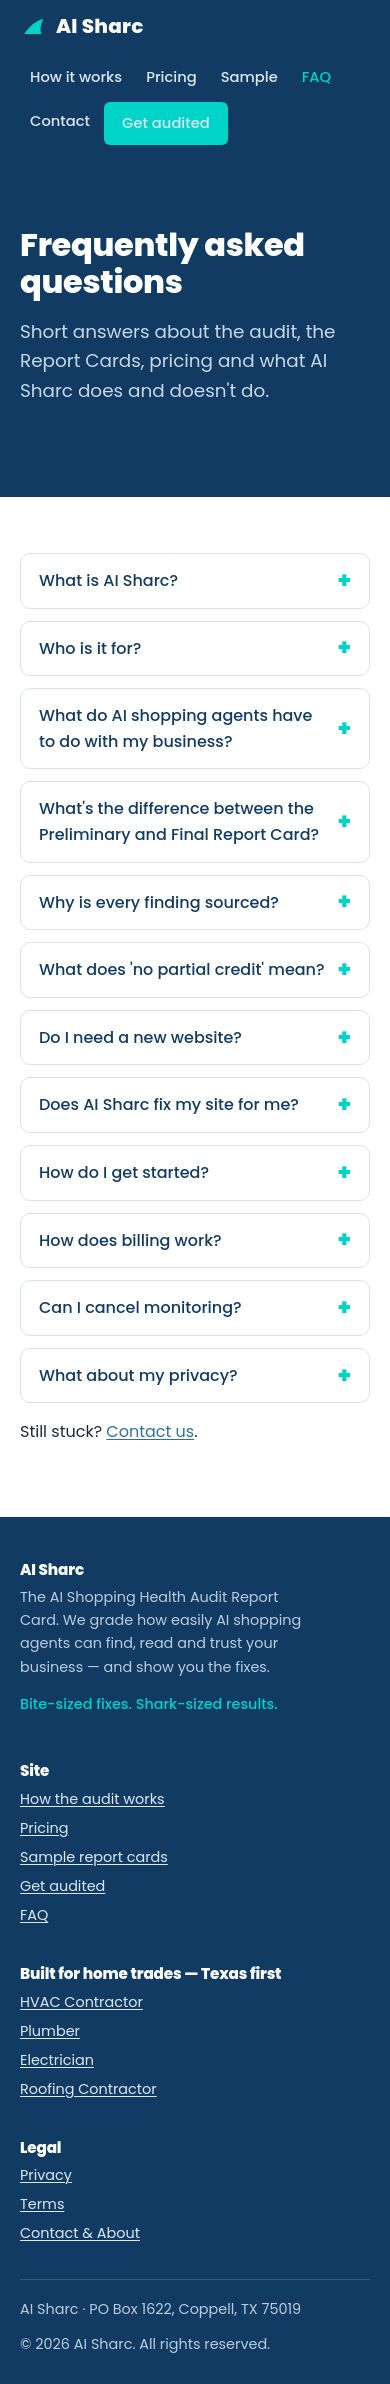
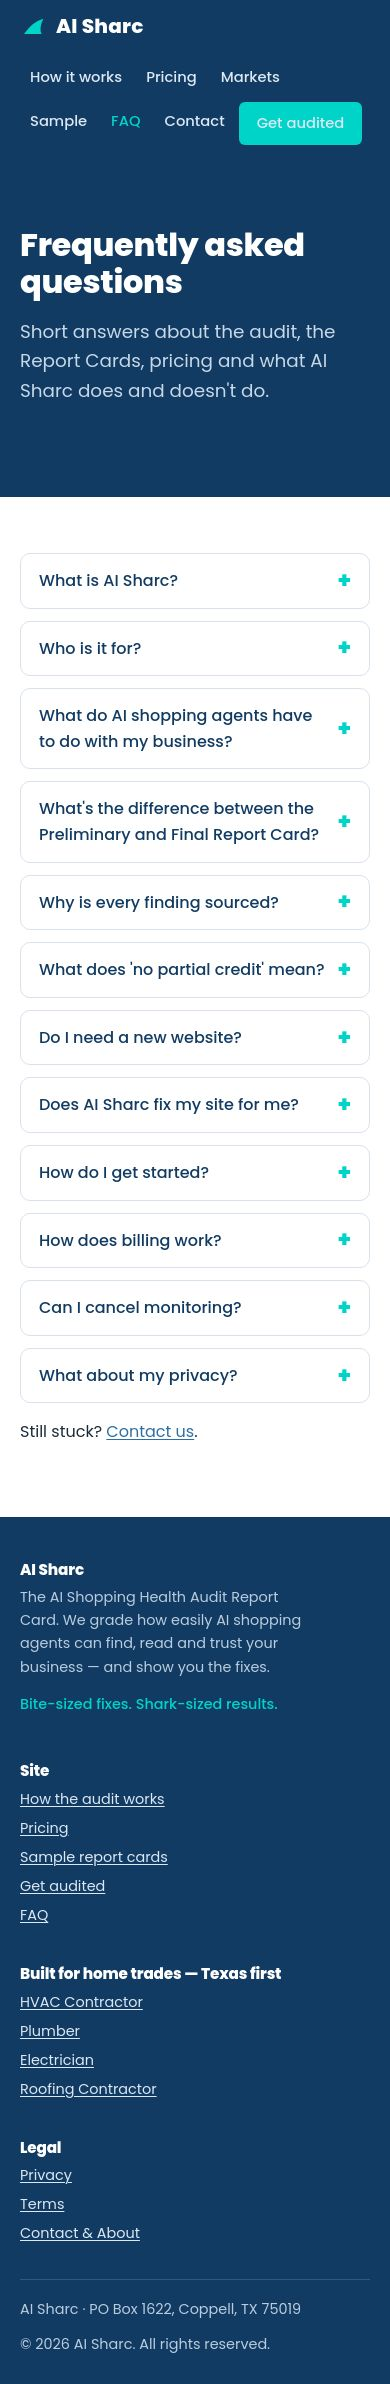
nav: Markets link to Texas HVAC page; photos rebranded to AC Sharc (Drain Sharc archived for plumbing)

Changed region(s): [[0.2462, 0.031, 0.9231, 0.0621], [0.1846, 0.031, 0.2154, 0.0621], [0.1231, 0.031, 0.1538, 0.0621]]

diff --git a/site/contact.html b/site/contact.html
@@ -29,7 +29,7 @@
 <header class="site-header">
   <div class="wrap">
     <a class="brand" href="index.html" aria-label="AI Sharc home"><svg class="fin" width="26" height="20" viewBox="-14 -48 132 102" aria-hidden="true"><path d="M 6 44 Q 50 -20 105 -34 Q 80 16 96 44 Z" fill="#00D4C8"/></svg><strong>AI&nbsp;Sharc</strong></a>
-    <nav class="nav" aria-label="Main"><a href="how-it-works.html">How it works</a><a href="pricing.html">Pricing</a><a href="sample-cards.html">Sample</a><a href="faq.html">FAQ</a><a href="contact.html" aria-current="page">Contact</a>
+    <nav class="nav" aria-label="Main"><a href="how-it-works.html">How it works</a><a href="pricing.html">Pricing</a><a href="texas-hvac-contractor.html">Markets</a><a href="sample-cards.html">Sample</a><a href="faq.html">FAQ</a><a href="contact.html" aria-current="page">Contact</a>
       <a class="btn btn-teal" style="padding:8px 16px" href="https://aisharc.com/get-audited">Get audited</a>
     </nav>
   </div>

diff --git a/site/faq.html b/site/faq.html
@@ -29,7 +29,7 @@
 <header class="site-header">
   <div class="wrap">
     <a class="brand" href="index.html" aria-label="AI Sharc home"><svg class="fin" width="26" height="20" viewBox="-14 -48 132 102" aria-hidden="true"><path d="M 6 44 Q 50 -20 105 -34 Q 80 16 96 44 Z" fill="#00D4C8"/></svg><strong>AI&nbsp;Sharc</strong></a>
-    <nav class="nav" aria-label="Main"><a href="how-it-works.html">How it works</a><a href="pricing.html">Pricing</a><a href="sample-cards.html">Sample</a><a href="faq.html" aria-current="page">FAQ</a><a href="contact.html">Contact</a>
+    <nav class="nav" aria-label="Main"><a href="how-it-works.html">How it works</a><a href="pricing.html">Pricing</a><a href="texas-hvac-contractor.html">Markets</a><a href="sample-cards.html">Sample</a><a href="faq.html" aria-current="page">FAQ</a><a href="contact.html">Contact</a>
       <a class="btn btn-teal" style="padding:8px 16px" href="https://aisharc.com/get-audited">Get audited</a>
     </nav>
   </div>

diff --git a/site/how-it-works.html b/site/how-it-works.html
@@ -29,7 +29,7 @@
 <header class="site-header">
   <div class="wrap">
     <a class="brand" href="index.html" aria-label="AI Sharc home"><svg class="fin" width="26" height="20" viewBox="-14 -48 132 102" aria-hidden="true"><path d="M 6 44 Q 50 -20 105 -34 Q 80 16 96 44 Z" fill="#00D4C8"/></svg><strong>AI&nbsp;Sharc</strong></a>
-    <nav class="nav" aria-label="Main"><a href="how-it-works.html" aria-current="page">How it works</a><a href="pricing.html">Pricing</a><a href="sample-cards.html">Sample</a><a href="faq.html">FAQ</a><a href="contact.html">Contact</a>
+    <nav class="nav" aria-label="Main"><a href="how-it-works.html" aria-current="page">How it works</a><a href="pricing.html">Pricing</a><a href="texas-hvac-contractor.html">Markets</a><a href="sample-cards.html">Sample</a><a href="faq.html">FAQ</a><a href="contact.html">Contact</a>
       <a class="btn btn-teal" style="padding:8px 16px" href="https://aisharc.com/get-audited">Get audited</a>
     </nav>
   </div>

diff --git a/site/pricing.html b/site/pricing.html
@@ -29,7 +29,7 @@
 <header class="site-header">
   <div class="wrap">
     <a class="brand" href="index.html" aria-label="AI Sharc home"><svg class="fin" width="26" height="20" viewBox="-14 -48 132 102" aria-hidden="true"><path d="M 6 44 Q 50 -20 105 -34 Q 80 16 96 44 Z" fill="#00D4C8"/></svg><strong>AI&nbsp;Sharc</strong></a>
-    <nav class="nav" aria-label="Main"><a href="how-it-works.html">How it works</a><a href="pricing.html" aria-current="page">Pricing</a><a href="sample-cards.html">Sample</a><a href="faq.html">FAQ</a><a href="contact.html">Contact</a>
+    <nav class="nav" aria-label="Main"><a href="how-it-works.html">How it works</a><a href="pricing.html" aria-current="page">Pricing</a><a href="texas-hvac-contractor.html">Markets</a><a href="sample-cards.html">Sample</a><a href="faq.html">FAQ</a><a href="contact.html">Contact</a>
       <a class="btn btn-teal" style="padding:8px 16px" href="https://aisharc.com/get-audited">Get audited</a>
     </nav>
   </div>

diff --git a/site/sample-cards.html b/site/sample-cards.html
@@ -29,7 +29,7 @@
 <header class="site-header">
   <div class="wrap">
     <a class="brand" href="index.html" aria-label="AI Sharc home"><svg class="fin" width="26" height="20" viewBox="-14 -48 132 102" aria-hidden="true"><path d="M 6 44 Q 50 -20 105 -34 Q 80 16 96 44 Z" fill="#00D4C8"/></svg><strong>AI&nbsp;Sharc</strong></a>
-    <nav class="nav" aria-label="Main"><a href="how-it-works.html">How it works</a><a href="pricing.html">Pricing</a><a href="sample-cards.html" aria-current="page">Sample</a><a href="faq.html">FAQ</a><a href="contact.html">Contact</a>
+    <nav class="nav" aria-label="Main"><a href="how-it-works.html">How it works</a><a href="pricing.html">Pricing</a><a href="texas-hvac-contractor.html">Markets</a><a href="sample-cards.html" aria-current="page">Sample</a><a href="faq.html">FAQ</a><a href="contact.html">Contact</a>
       <a class="btn btn-teal" style="padding:8px 16px" href="https://aisharc.com/get-audited">Get audited</a>
     </nav>
   </div>

diff --git a/site/digest/google-books-services-in-search.html b/site/digest/google-books-services-in-search.html
@@ -29,7 +29,7 @@
 <header class="site-header">
   <div class="wrap">
     <a class="brand" href="../index.html" aria-label="AI Sharc home"><svg class="fin" width="26" height="20" viewBox="-14 -48 132 102" aria-hidden="true"><path d="M 6 44 Q 50 -20 105 -34 Q 80 16 96 44 Z" fill="#00D4C8"/></svg><strong>AI&nbsp;Sharc</strong></a>
-    <nav class="nav" aria-label="Main"><a href="../how-it-works.html">How it works</a><a href="../pricing.html">Pricing</a><a href="../sample-cards.html">Sample</a><a href="../faq.html">FAQ</a><a href="../contact.html">Contact</a>
+    <nav class="nav" aria-label="Main"><a href="../how-it-works.html">How it works</a><a href="../pricing.html">Pricing</a><a href="../texas-hvac-contractor.html">Markets</a><a href="../sample-cards.html">Sample</a><a href="../faq.html">FAQ</a><a href="../contact.html">Contact</a>
       <a class="btn btn-teal" style="padding:8px 16px" href="https://aisharc.com/get-audited">Get audited</a>
     </nav>
   </div>

diff --git a/site/digest/google-first-place-is-worth-less.html b/site/digest/google-first-place-is-worth-less.html
@@ -29,7 +29,7 @@
 <header class="site-header">
   <div class="wrap">
     <a class="brand" href="../index.html" aria-label="AI Sharc home"><svg class="fin" width="26" height="20" viewBox="-14 -48 132 102" aria-hidden="true"><path d="M 6 44 Q 50 -20 105 -34 Q 80 16 96 44 Z" fill="#00D4C8"/></svg><strong>AI&nbsp;Sharc</strong></a>
-    <nav class="nav" aria-label="Main"><a href="../how-it-works.html">How it works</a><a href="../pricing.html">Pricing</a><a href="../sample-cards.html">Sample</a><a href="../faq.html">FAQ</a><a href="../contact.html">Contact</a>
+    <nav class="nav" aria-label="Main"><a href="../how-it-works.html">How it works</a><a href="../pricing.html">Pricing</a><a href="../texas-hvac-contractor.html">Markets</a><a href="../sample-cards.html">Sample</a><a href="../faq.html">FAQ</a><a href="../contact.html">Contact</a>
       <a class="btn btn-teal" style="padding:8px 16px" href="https://aisharc.com/get-audited">Get audited</a>
     </nav>
   </div>

diff --git a/site/digest/homeowners-ask-ai-first.html b/site/digest/homeowners-ask-ai-first.html
@@ -29,7 +29,7 @@
 <header class="site-header">
   <div class="wrap">
     <a class="brand" href="../index.html" aria-label="AI Sharc home"><svg class="fin" width="26" height="20" viewBox="-14 -48 132 102" aria-hidden="true"><path d="M 6 44 Q 50 -20 105 -34 Q 80 16 96 44 Z" fill="#00D4C8"/></svg><strong>AI&nbsp;Sharc</strong></a>
-    <nav class="nav" aria-label="Main"><a href="../how-it-works.html">How it works</a><a href="../pricing.html">Pricing</a><a href="../sample-cards.html">Sample</a><a href="../faq.html">FAQ</a><a href="../contact.html">Contact</a>
+    <nav class="nav" aria-label="Main"><a href="../how-it-works.html">How it works</a><a href="../pricing.html">Pricing</a><a href="../texas-hvac-contractor.html">Markets</a><a href="../sample-cards.html">Sample</a><a href="../faq.html">FAQ</a><a href="../contact.html">Contact</a>
       <a class="btn btn-teal" style="padding:8px 16px" href="https://aisharc.com/get-audited">Get audited</a>
     </nav>
   </div>

diff --git a/site/digest/index.html b/site/digest/index.html
@@ -29,7 +29,7 @@
 <header class="site-header">
   <div class="wrap">
     <a class="brand" href="../index.html" aria-label="AI Sharc home"><svg class="fin" width="26" height="20" viewBox="-14 -48 132 102" aria-hidden="true"><path d="M 6 44 Q 50 -20 105 -34 Q 80 16 96 44 Z" fill="#00D4C8"/></svg><strong>AI&nbsp;Sharc</strong></a>
-    <nav class="nav" aria-label="Main"><a href="../how-it-works.html">How it works</a><a href="../pricing.html">Pricing</a><a href="../sample-cards.html">Sample</a><a href="../faq.html">FAQ</a><a href="../contact.html">Contact</a>
+    <nav class="nav" aria-label="Main"><a href="../how-it-works.html">How it works</a><a href="../pricing.html">Pricing</a><a href="../texas-hvac-contractor.html">Markets</a><a href="../sample-cards.html">Sample</a><a href="../faq.html">FAQ</a><a href="../contact.html">Contact</a>
       <a class="btn btn-teal" style="padding:8px 16px" href="https://aisharc.com/get-audited">Get audited</a>
     </nav>
   </div>

diff --git a/site/digest/most-contractors-invisible-to-ai.html b/site/digest/most-contractors-invisible-to-ai.html
@@ -29,7 +29,7 @@
 <header class="site-header">
   <div class="wrap">
     <a class="brand" href="../index.html" aria-label="AI Sharc home"><svg class="fin" width="26" height="20" viewBox="-14 -48 132 102" aria-hidden="true"><path d="M 6 44 Q 50 -20 105 -34 Q 80 16 96 44 Z" fill="#00D4C8"/></svg><strong>AI&nbsp;Sharc</strong></a>
-    <nav class="nav" aria-label="Main"><a href="../how-it-works.html">How it works</a><a href="../pricing.html">Pricing</a><a href="../sample-cards.html">Sample</a><a href="../faq.html">FAQ</a><a href="../contact.html">Contact</a>
+    <nav class="nav" aria-label="Main"><a href="../how-it-works.html">How it works</a><a href="../pricing.html">Pricing</a><a href="../texas-hvac-contractor.html">Markets</a><a href="../sample-cards.html">Sample</a><a href="../faq.html">FAQ</a><a href="../contact.html">Contact</a>
       <a class="btn btn-teal" style="padding:8px 16px" href="https://aisharc.com/get-audited">Get audited</a>
     </nav>
   </div>

diff --git a/site/digest/yelp-became-chatgpts-data-source.html b/site/digest/yelp-became-chatgpts-data-source.html
@@ -29,7 +29,7 @@
 <header class="site-header">
   <div class="wrap">
     <a class="brand" href="../index.html" aria-label="AI Sharc home"><svg class="fin" width="26" height="20" viewBox="-14 -48 132 102" aria-hidden="true"><path d="M 6 44 Q 50 -20 105 -34 Q 80 16 96 44 Z" fill="#00D4C8"/></svg><strong>AI&nbsp;Sharc</strong></a>
-    <nav class="nav" aria-label="Main"><a href="../how-it-works.html">How it works</a><a href="../pricing.html">Pricing</a><a href="../sample-cards.html">Sample</a><a href="../faq.html">FAQ</a><a href="../contact.html">Contact</a>
+    <nav class="nav" aria-label="Main"><a href="../how-it-works.html">How it works</a><a href="../pricing.html">Pricing</a><a href="../texas-hvac-contractor.html">Markets</a><a href="../sample-cards.html">Sample</a><a href="../faq.html">FAQ</a><a href="../contact.html">Contact</a>
       <a class="btn btn-teal" style="padding:8px 16px" href="https://aisharc.com/get-audited">Get audited</a>
     </nav>
   </div>

diff --git a/site/texas-hvac-contractor.html b/site/texas-hvac-contractor.html
@@ -29,7 +29,7 @@
 <header class="site-header">
   <div class="wrap">
     <a class="brand" href="index.html" aria-label="AI Sharc home"><svg class="fin" width="26" height="20" viewBox="-14 -48 132 102" aria-hidden="true"><path d="M 6 44 Q 50 -20 105 -34 Q 80 16 96 44 Z" fill="#00D4C8"/></svg><strong>AI&nbsp;Sharc</strong></a>
-    <nav class="nav" aria-label="Main"><a href="how-it-works.html">How it works</a><a href="pricing.html">Pricing</a><a href="sample-cards.html">Sample</a><a href="faq.html">FAQ</a><a href="contact.html">Contact</a>
+    <nav class="nav" aria-label="Main"><a href="how-it-works.html">How it works</a><a href="pricing.html">Pricing</a><a href="texas-hvac-contractor.html" aria-current="page">Markets</a><a href="sample-cards.html">Sample</a><a href="faq.html">FAQ</a><a href="contact.html">Contact</a>
       <a class="btn btn-teal" style="padding:8px 16px" href="https://aisharc.com/get-audited">Get audited</a>
     </nav>
   </div>
